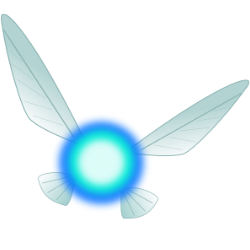
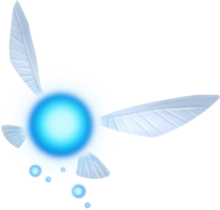
begining CSS

Changed region(s): [[0.0, 0.0, 1.0, 1.0]]

diff --git a/assets/javascript/app.js b/assets/javascript/app.js
@@ -54,6 +54,32 @@ $(document).ready(function () {
     var resultUnanswered = $("#unanswered");
     // Gets a question by injecting the current question into the HTML
 
+    function init() {
+        $("#naviContainer").show();
+        $(".container").hide();
+        // antiGrav();
+        // $("#navi").fadeIn(500).addClass("anim");
+    };
+    init();
+
+    $("img#navi").on("click", function () {
+        $("#naviContainer").hide();
+        $(".container").show();
+        timeReset();
+        countdown();
+    });
+
+    // AntiGrav function
+    // function antiGrav(ele, distance) {
+    //     $(ele).animate({
+    //         'top': "+=" + distance + "px"
+    //     }, 1500, "swing", function () {
+    //         $(ele).animate({
+    //             'top': "-=" + distance + "px"
+    //         }, 1200, "swing", function () {
+    //             antiGrav(ele, distance);
+    //         });
+
     function getQuestion(questionIndex) {
         var q = questions[questionIndex];
         zeldaQuestion.text((questionIndex + 1) + ". " + q.question);
@@ -62,18 +88,17 @@ $(document).ready(function () {
         opt3.text(q.option3);
         opt4.text(q.option4);
     };
+    // Timer  
     function timeReset() {
         time = 30;
         countdown();
     };
-    function timeStop(){
+    function timeStop() {
         clearTimeout(timerSec)
     };
-
-    // Timer  
     function countdown() {
         if (time == 0) {
-            timer.text(time + " seconds remaining");
+            timer.text(time);
             unanswered++;
             currentQuestion++;
             getQuestion(currentQuestion);
@@ -90,12 +115,20 @@ $(document).ready(function () {
             resultUnanswered.text("Unanswered: " + unanswered);
             return;
         }
+        if (time == 0 && currentQuestion == totQuestions) {
+            timeStop();
+            $("#quizContainer").hide();
+            $("#correct").show();
+            $("#incorrect").show();
+            $("#unanswered").show();
+        }
         else {
             timer.text(time);
             time--;
         }
-    }
+    };
     countdown();
+    // END Timer
 
     // Tests an answer to a question against the saved correct answer value and awards points accordingly
     $(document).on('click', 'input', function () {
@@ -112,7 +145,6 @@ $(document).ready(function () {
         if (currentQuestion == totQuestions) {
             timeStop();
             $(".container").hide();
-            $(".resultWrapper").show();
             $("#correct").show();
             $("#incorrect").show();
             $("#unanswered").show();

diff --git a/assets/css/style.css b/assets/css/style.css
@@ -6,14 +6,73 @@ html{
     height:100%;
 }
 body{
-    background-image: url("../images/twilightPrincessBG.jpg");
+    background-image: url("../images/blueBG.jpg");
     background-size: cover;
     background-position: absolute;
     min-height:100%;
     background-repeat:no-repeat;
     color: #f2e918;
-    font-family: "Triforce.ttf"
+    font-family: "Triforce"
 }
 .container result{
     display: none;
 }
+h1{
+    position: absolute;
+    top: 30%;
+    left: 39%;
+    font-size: 80px;
+    opacity: .50;
+}
+h2{
+    position: absolute;
+    top: 62%;
+    left: 34%;
+    font-size: 50px;
+    opacity: .50;
+}
+img#navi{
+    background-color: rgb(300,300,300);
+    background: transparent;
+    position: absolute;
+    top: 40%;
+    left: 45%;
+}
+
+div.title{
+    padding-top: 20px;
+    text-align: center;
+    font-size: 100px;
+    text-transform: uppercase;
+    position: absolute;
+    top: 3%;
+    left: 26%;
+    z-index: 2;
+    opacity: .75;
+}
+p#timer{
+    padding: 20px;
+    font-size: 25px;
+    background: #000000;
+    opacity: .75;
+    width: 500px;
+    font-size: 250px;
+    width: 335px;
+    height: 385px;
+    text-align: center;
+    position: absolute;
+    top: 40%;
+    right: 10%;
+}
+/* #navi {
+    width:350px;
+    display:block;
+    margin:0 auto;
+    -webkit-transition: -webkit-transform 5s ease-in-out;
+    position:absolute;
+    z-index: 30;
+    
+}
+.anim {
+    -webkit-transform:translate(450px,0px);
+} */

diff --git a/index.html b/index.html
@@ -20,8 +20,15 @@
 </head>
 
 <body>
+    <!-- Navi Load Page -->
+    <div id="naviContainer">
+        <h1>Click Navi</h1>
+        <img id="navi"src="./assets/images/naviHover.png" alt="Navi">
+        <h2>To begin the Zelda Trivia</h2>
+    </div>
 
-    <div id "quizContainer" class="container">
+    <!-- Main Trivia -->
+    <div id= "quizContainer" class="container">
         <div class="title">Zelda Trivia</div>
         <div id="question" class="question"></div>
         <label class="option">
